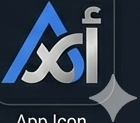
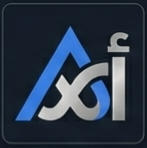
جديد

diff --git a/client/src/pages/LoginPage.tsx b/client/src/pages/LoginPage.tsx
@@ -12,6 +12,7 @@ import {
   FormControl,
   FormField,
   FormItem,
+  FormMessage,
 } from "../components/ui/form";
 import { Input } from "../components/ui/input";
 import { Button } from "../components/ui/button";
@@ -233,11 +234,11 @@ export default function LoginPage() {
               {/* Outer Glow / Halo */}
               <div className="absolute -inset-1.5 bg-blue-500/10 rounded-[24px] blur-md opacity-0 group-hover:opacity-100 transition duration-500"></div>
               
-              <div className="w-24 h-24 flex items-center justify-center transition-all duration-500 hover:scale-105 active:scale-95 relative bg-white/50 dark:bg-white/5 backdrop-blur-sm rounded-2xl p-2 border border-white/20">
+              <div className="w-24 h-24 flex items-center justify-center transition-all duration-500 hover:scale-105 active:scale-95 relative bg-white/50 dark:bg-white/5 backdrop-blur-sm rounded-2xl p-2 border border-white/20 overflow-hidden">
                 <img 
                   src={appIconLight} 
                   alt="AXION Logo" 
-                  className="w-full h-full object-contain"
+                  className="w-full h-full object-cover rounded-xl"
                   data-testid="img-logo-light"
                 />
                 {/* Status Indicator / Pulse Point - Matching the Image */}
@@ -294,7 +295,19 @@ export default function LoginPage() {
 
           {/* Form - Slim Fields */}
           <Form {...form}>
-            <form onSubmit={form.handleSubmit((data) => loginMutation.mutate(data))} className="space-y-2 animate-in fade-in slide-in-from-bottom duration-700 delay-500 fill-mode-both">
+            <form onSubmit={form.handleSubmit(
+              (data) => loginMutation.mutate(data),
+              (errors) => {
+                const messages: string[] = [];
+                if (errors.email) messages.push(errors.email.message || "البريد الإلكتروني غير صحيح");
+                if (errors.password) messages.push(errors.password.message || "كلمة المرور مطلوبة");
+                toast({
+                  title: "خطأ في البيانات",
+                  description: messages.join(" · "),
+                  variant: "destructive",
+                });
+              }
+            )} className="space-y-2 animate-in fade-in slide-in-from-bottom duration-700 delay-500 fill-mode-both">
               <FormField
                 control={form.control}
                 name="email"
@@ -318,6 +331,7 @@ export default function LoginPage() {
                         <Users className="w-5 h-5" strokeWidth={1.5} />
                       </button>
                     </div>
+                    <FormMessage data-testid="text-error-email" />
                   </FormItem>
                 )}
               />
@@ -355,6 +369,7 @@ export default function LoginPage() {
                         )}
                       </button>
                     </div>
+                    <FormMessage data-testid="text-error-password" />
                   </FormItem>
                 )}
               />

diff --git a/scripts/sync-version.js b/scripts/sync-version.js
@@ -2,26 +2,42 @@ import fs from 'fs';
 import path from 'path';
 
 const packageJsonPath = path.resolve('package.json');
-const buildGradlePath = path.resolve('android/app/build.gradle');
+const versionPropertiesPath = path.resolve('android/app/version.properties');
+const androidAppDir = path.resolve('android/app');
 
 function syncVersion() {
     try {
+        // Read package.json to get version
         const packageJson = JSON.parse(fs.readFileSync(packageJsonPath, 'utf8'));
-        const version = packageJson.version;
-        // Convert version 1.0.27 to numeric code (e.g., 27)
+        let version = packageJson.version;
+
+        // Check if a version argument was provided via CLI
+        const cliVersion = process.argv[2];
+        if (cliVersion) {
+            version = cliVersion;
+            // Update package.json with the new version
+            packageJson.version = version;
+            fs.writeFileSync(packageJsonPath, JSON.stringify(packageJson, null, 2) + '\n');
+            console.log(`✅ Updated package.json version to ${version}`);
+        }
+
+        // Convert version (e.g., 1.0.27) to numeric code (e.g., 27)
         const versionCode = parseInt(version.split('.').pop()) || 1;
 
-        let gradleContent = fs.readFileSync(buildGradlePath, 'utf8');
+        // Ensure android/app directory exists
+        if (!fs.existsSync(androidAppDir)) {
+            fs.mkdirSync(androidAppDir, { recursive: true });
+        }
 
-        // Update versionCode
-        gradleContent = gradleContent.replace(/versionCode \d+/, `versionCode ${versionCode}`);
-        // Update versionName
-        gradleContent = gradleContent.replace(/versionName "[^"]+"/, `versionName "${version}"`);
+        // Write version.properties file for Android build
+        const versionPropertiesContent = `VERSION_CODE=${versionCode}\nVERSION_NAME=${version}\n`;
+        fs.writeFileSync(versionPropertiesPath, versionPropertiesContent);
 
-        fs.writeFileSync(buildGradlePath, gradleContent);
         console.log(`✅ Synced Android version to ${version} (code: ${versionCode})`);
+        console.log(`✅ Created/updated ${versionPropertiesPath}`);
     } catch (error) {
         console.error('❌ Error syncing version:', error.message);
+        process.exit(1);
     }
 }
 

diff --git a/client/src/pages/deployment-console.tsx b/client/src/pages/deployment-console.tsx
@@ -213,6 +213,7 @@ export default function DeploymentConsole() {
   const [isCheckingHealth, setIsCheckingHealth] = useState(false);
   const [isCleaning, setIsCleaning] = useState(false);
   const [expandedHistoryId, setExpandedHistoryId] = useState<string | null>(null);
+  const hasAutoResumedRef = useRef<string | null>(null);
 
   const { data: statsData } = useQuery<DeploymentStats>({
     queryKey: ["/api/deployment/stats"],
@@ -255,11 +256,6 @@ export default function DeploymentConsole() {
           }
           refetchHistory();
           queryClient.invalidateQueries({ queryKey: ["/api/deployment/stats"] });
-          setTimeout(() => {
-            setActiveDeploymentId(null);
-            setLiveDeployment(null);
-            setLiveLogs([]);
-          }, 5000);
         }
       } catch {
         pollRetryCountRef.current++;
@@ -320,11 +316,6 @@ export default function DeploymentConsole() {
               stopPolling();
               refetchHistory();
               queryClient.invalidateQueries({ queryKey: ["/api/deployment/stats"] });
-              setTimeout(() => {
-                setActiveDeploymentId(null);
-                setLiveDeployment(null);
-                setLiveLogs([]);
-              }, 5000);
             }
           } else if (payload.type === "step_update") {
             setLiveDeployment(prev => {
@@ -381,9 +372,14 @@ export default function DeploymentConsole() {
     if (!activeDeploymentId && historyData?.deployments) {
       const running = historyData.deployments.find(d => d.status === "running");
       if (running) {
-        setActiveDeploymentId(running.id);
-        setLiveDeployment(running);
-        setLiveLogs(Array.isArray(running.logs) ? running.logs : []);
+        if (!hasAutoResumedRef.current || running.id !== hasAutoResumedRef.current) {
+          hasAutoResumedRef.current = running.id;
+          setActiveDeploymentId(running.id);
+          setLiveDeployment(running);
+          setLiveLogs(Array.isArray(running.logs) ? running.logs : []);
+        }
+      } else {
+        hasAutoResumedRef.current = null;
       }
     }
   }, [historyData, activeDeploymentId]);

diff --git a/client/src/offline/intelligent-monitor.ts b/client/src/offline/intelligent-monitor.ts
@@ -30,11 +30,22 @@ class IntelligentMonitor {
     console.log("🚀 [IntelligentMonitor] Initializing...");
     // Catch-all for unhandled rejections in native environment
     window.addEventListener('unhandledrejection', (event) => {
+      const reason = event.reason;
+      const reasonStr = String(reason?.message || reason || '');
+      if (
+        reason?.name === 'ZodError' ||
+        reasonStr.includes('too_small') ||
+        reasonStr.includes('invalid_format') ||
+        reasonStr.includes('invalid_string') ||
+        (Array.isArray(reason?.issues || reason?.errors))
+      ) {
+        return;
+      }
       this.logEvent({
         type: 'error',
         severity: 'critical',
-        message: `Unhandled Promise Rejection: ${event.reason?.message || 'Unknown'}`,
-        metadata: { stack: event.reason?.stack }
+        message: `Unhandled Promise Rejection: ${reason?.message || 'Unknown'}`,
+        metadata: { stack: reason?.stack }
       });
     });
   }

diff --git a/client/src/services/appUpdateChecker.ts b/client/src/services/appUpdateChecker.ts
@@ -1,6 +1,5 @@
 import { Capacitor } from '@capacitor/core';
 import { App } from '@capacitor/app';
-import { Browser } from '@capacitor/browser';
 
 const CHECK_COOLDOWN_MS = 4 * 60 * 60 * 1000;
 const LAST_CHECK_KEY = 'app_update_last_check';
@@ -87,12 +86,18 @@ async function checkForUpdate(): Promise<UpdateInfo | null> {
 async function openDownloadUrl(url: string) {
   try {
     if (Capacitor.isNativePlatform()) {
-      await Browser.open({ url });
-    } else {
-      window.open(url, '_blank');
+      try {
+        const { Browser } = await import('@capacitor/browser');
+        await Browser.open({ url });
+        return;
+      } catch {
+        window.location.href = url;
+        return;
+      }
     }
-  } catch {
     window.open(url, '_blank');
+  } catch {
+    window.location.href = url;
   }
 }
 
